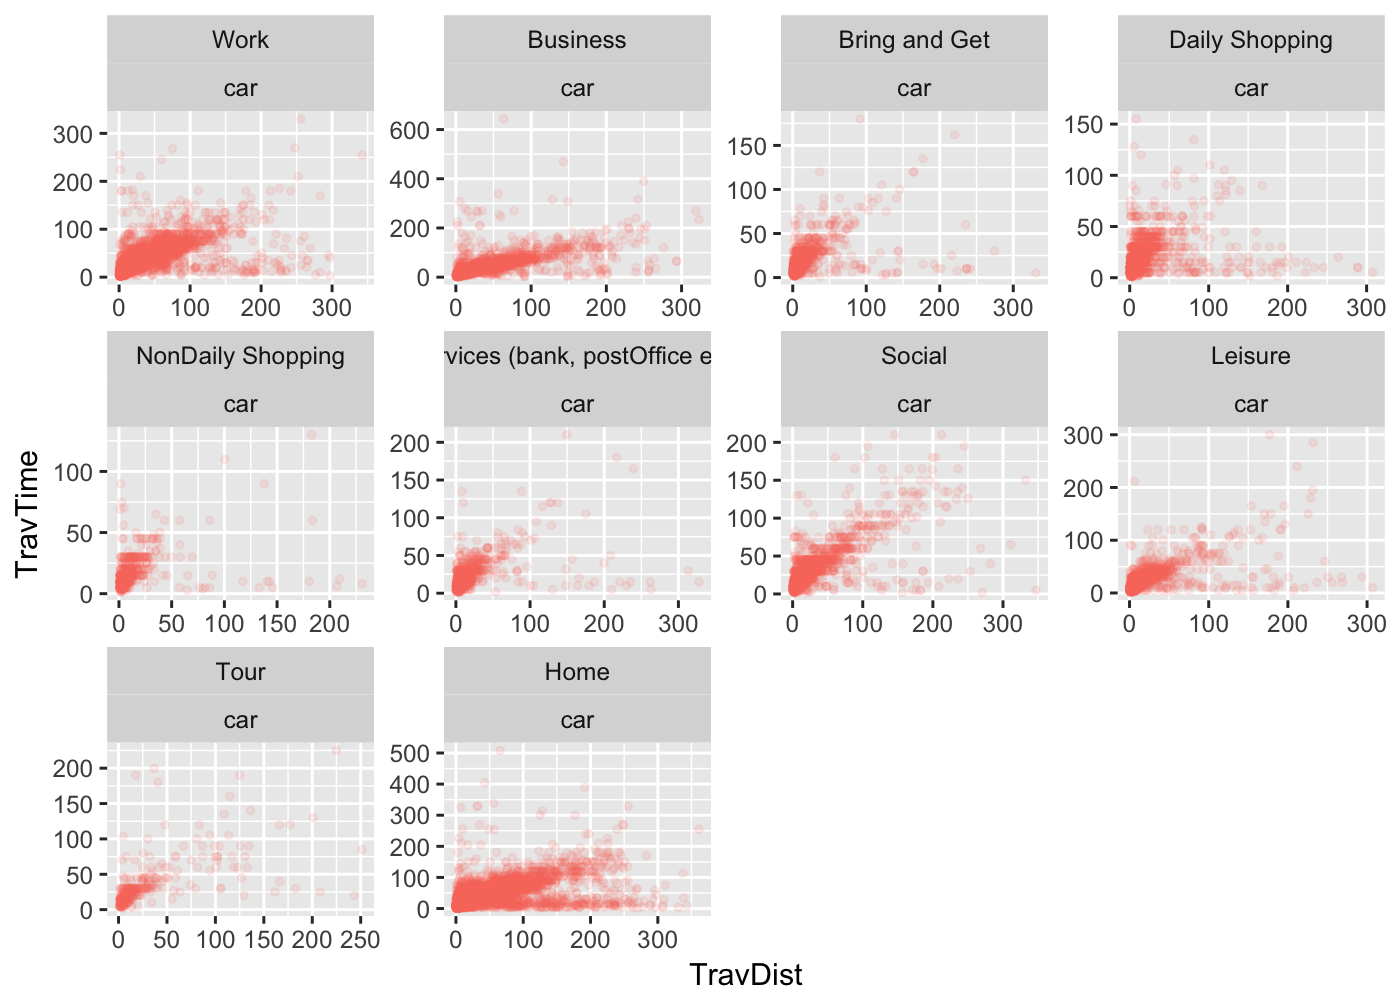
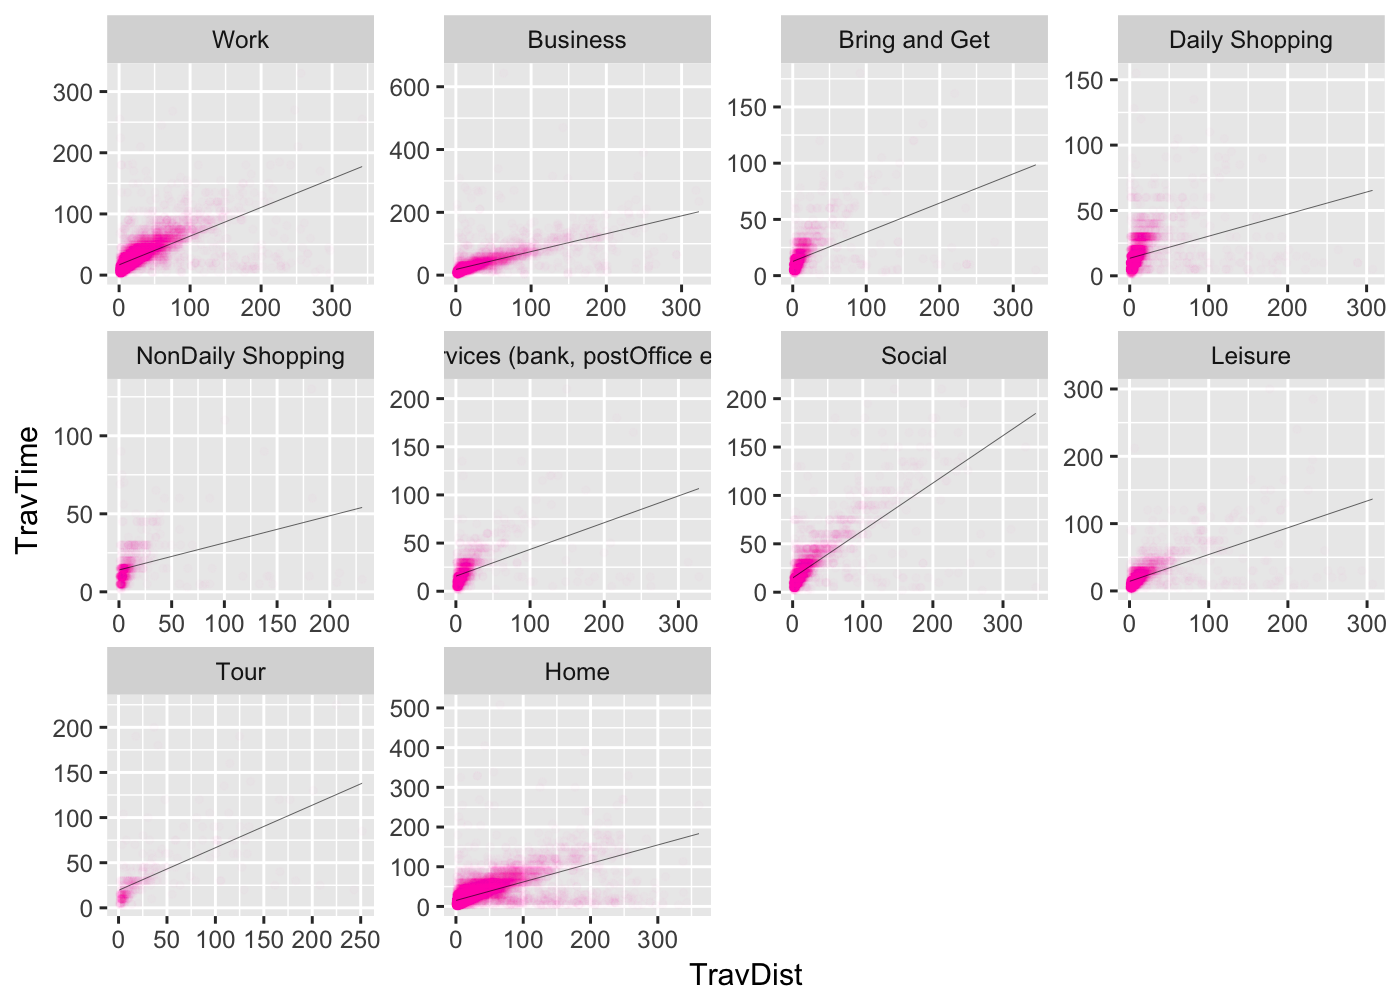
added descriptive stats

diff --git a/doc/AlbatrossReport.md b/doc/AlbatrossReport.md
@@ -72,41 +72,6 @@ For control over what distance ranges are extracted from the MON data, we define
 
 ![](AlbatrossReport_files/figure-markdown_github-ascii_identifiers/unnamed-chunk-10-1.png)
 
-|  bin\_low|  bin\_high|   carsOnly|   allModes|
-|---------:|----------:|----------:|----------:|
-|         0|          1|  0.0041578|  0.0082645|
-|         1|          2|  0.0396769|  0.0691854|
-|         2|          3|  0.0475172|  0.0792601|
-|         3|          4|  0.0458541|  0.0664305|
-|         4|          5|  0.0387265|  0.0506100|
-|         5|          6|  0.0405084|  0.0462810|
-|         6|          7|  0.0396769|  0.0408501|
-|         7|          8|  0.0397957|  0.0404565|
-|         8|          9|  0.0333809|  0.0319559|
-|         9|         10|  0.0332621|  0.0293585|
-|        10|         15|  0.1348301|  0.1145218|
-|        15|         20|  0.1069138|  0.0882330|
-|        20|         25|  0.0723450|  0.0606061|
-|        25|         30|  0.0580898|  0.0484061|
-|        30|         40|  0.0793538|  0.0646202|
-|        40|         50|  0.0437158|  0.0369146|
-|        50|         60|  0.0365883|  0.0322708|
-|        60|         70|  0.0273224|  0.0235340|
-|        70|         80|  0.0153243|  0.0134593|
-|        80|         90|  0.0147303|  0.0120425|
-|        90|        100|  0.0087907|  0.0075561|
-|       100|        110|  0.0058209|  0.0054309|
-|       110|        120|  0.0042766|  0.0043290|
-|       120|        130|  0.0039202|  0.0036206|
-|       130|        140|  0.0030886|  0.0028335|
-|       140|        150|  0.0030886|  0.0026761|
-|       150|        160|  0.0015443|  0.0013381|
-|       160|        170|  0.0009503|  0.0011019|
-|       170|        180|  0.0024947|  0.0019677|
-|       180|        190|  0.0011879|  0.0011806|
-|       190|        200|  0.0011879|  0.0010232|
-|       200|        500|  0.0118793|  0.0096812|
-
 #### 9. Extracting travel pattern on weekends
 
 For control over what distance ranges are extracted from the MON data, we define our own distance bins.
@@ -119,41 +84,6 @@ For control over what distance ranges are extracted from the MON data, we define
 
 ![](AlbatrossReport_files/figure-markdown_github-ascii_identifiers/unnamed-chunk-12-1.png)
 
-|  bin\_low|  bin\_high|   carsOnly|   allModes|
-|---------:|----------:|----------:|----------:|
-|         0|          1|  0.0129443|  0.0225864|
-|         1|          2|  0.0782141|  0.1224732|
-|         2|          3|  0.0870996|  0.1074875|
-|         3|          4|  0.0772269|  0.0794566|
-|         4|          5|  0.0627468|  0.0635006|
-|         5|          6|  0.0529838|  0.0513719|
-|         6|          7|  0.0567135|  0.0470056|
-|         7|          8|  0.0473892|  0.0391893|
-|         8|          9|  0.0346643|  0.0308339|
-|         9|         10|  0.0344449|  0.0290550|
-|        10|         15|  0.1173760|  0.1032828|
-|        15|         20|  0.0692190|  0.0539054|
-|        20|         25|  0.0425625|  0.0384346|
-|        25|         30|  0.0353225|  0.0295402|
-|        30|         40|  0.0372971|  0.0330440|
-|        40|         50|  0.0262176|  0.0239879|
-|        50|         60|  0.0210619|  0.0190286|
-|        60|         70|  0.0200746|  0.0176271|
-|        70|         80|  0.0127249|  0.0136920|
-|        80|         90|  0.0133831|  0.0114819|
-|        90|        100|  0.0084467|  0.0090022|
-|       100|        110|  0.0063624|  0.0070077|
-|       110|        120|  0.0062527|  0.0070616|
-|       120|        130|  0.0049364|  0.0043663|
-|       130|        140|  0.0048267|  0.0051749|
-|       140|        150|  0.0030715|  0.0026953|
-|       150|        160|  0.0036200|  0.0038273|
-|       160|        170|  0.0014261|  0.0025336|
-|       170|        180|  0.0012067|  0.0012937|
-|       180|        190|  0.0037297|  0.0032343|
-|       190|        200|  0.0025230|  0.0021023|
-|       200|        500|  0.0139315|  0.0147162|
-
 Cleaning Data
 -------------
 
@@ -163,14 +93,30 @@ It was found that the data has some problems interms of Travel Distance not matc
 
 ![](AlbatrossReport_files/figure-markdown_github-ascii_identifiers/unnamed-chunk-14-1.png)
 
-#### Cleaned : Travel Distance vs Travel Time - car - All purposes
+#### Cleaned : Travel Distance vs Travel Time - car - All purposes - weekdays
 
 <img src="AlbatrossReport_files/figure-markdown_github-ascii_identifiers/unnamed-chunk-15-1.png" width="100%" />
 
-#### Cleaned : Travel Distance vs Travel Time - car - work
+#### Cleaned : Travel Distance vs Travel Time - car - All purposes - weekends
 
-<img src="AlbatrossReport_files/figure-markdown_github-ascii_identifiers/unnamed-chunk-16-1.png" style="display: block; margin: auto;" />
+<img src="AlbatrossReport_files/figure-markdown_github-ascii_identifiers/unnamed-chunk-16-1.png" width="100%" />
 
-#### Cleaned : Travel Distance vs Travel Time - car - work
+#### Cleaned : Travel Distance vs Travel Time - car -(weekdays)- *Work*
 
 <img src="AlbatrossReport_files/figure-markdown_github-ascii_identifiers/unnamed-chunk-17-1.png" style="display: block; margin: auto;" />
+
+#### Cleaned : Travel Distance vs Travel Time - car (weekdays) - *Social*
+
+<img src="AlbatrossReport_files/figure-markdown_github-ascii_identifiers/unnamed-chunk-18-1.png" style="display: block; margin: auto;" />
+
+#### Cleaned : Travel Distance vs Travel Time - car (weekends) - *Social*
+
+<img src="AlbatrossReport_files/figure-markdown_github-ascii_identifiers/unnamed-chunk-19-1.png" style="display: block; margin: auto;" />
+
+#### Cleaned : Extracting Travel Patterns for work on weekdays - car
+
+![](AlbatrossReport_files/figure-markdown_github-ascii_identifiers/unnamed-chunk-20-1.png)
+
+#### Cleaned : Extracting Travel Patterns on weekends - car
+
+![](AlbatrossReport_files/figure-markdown_github-ascii_identifiers/unnamed-chunk-21-1.png)
